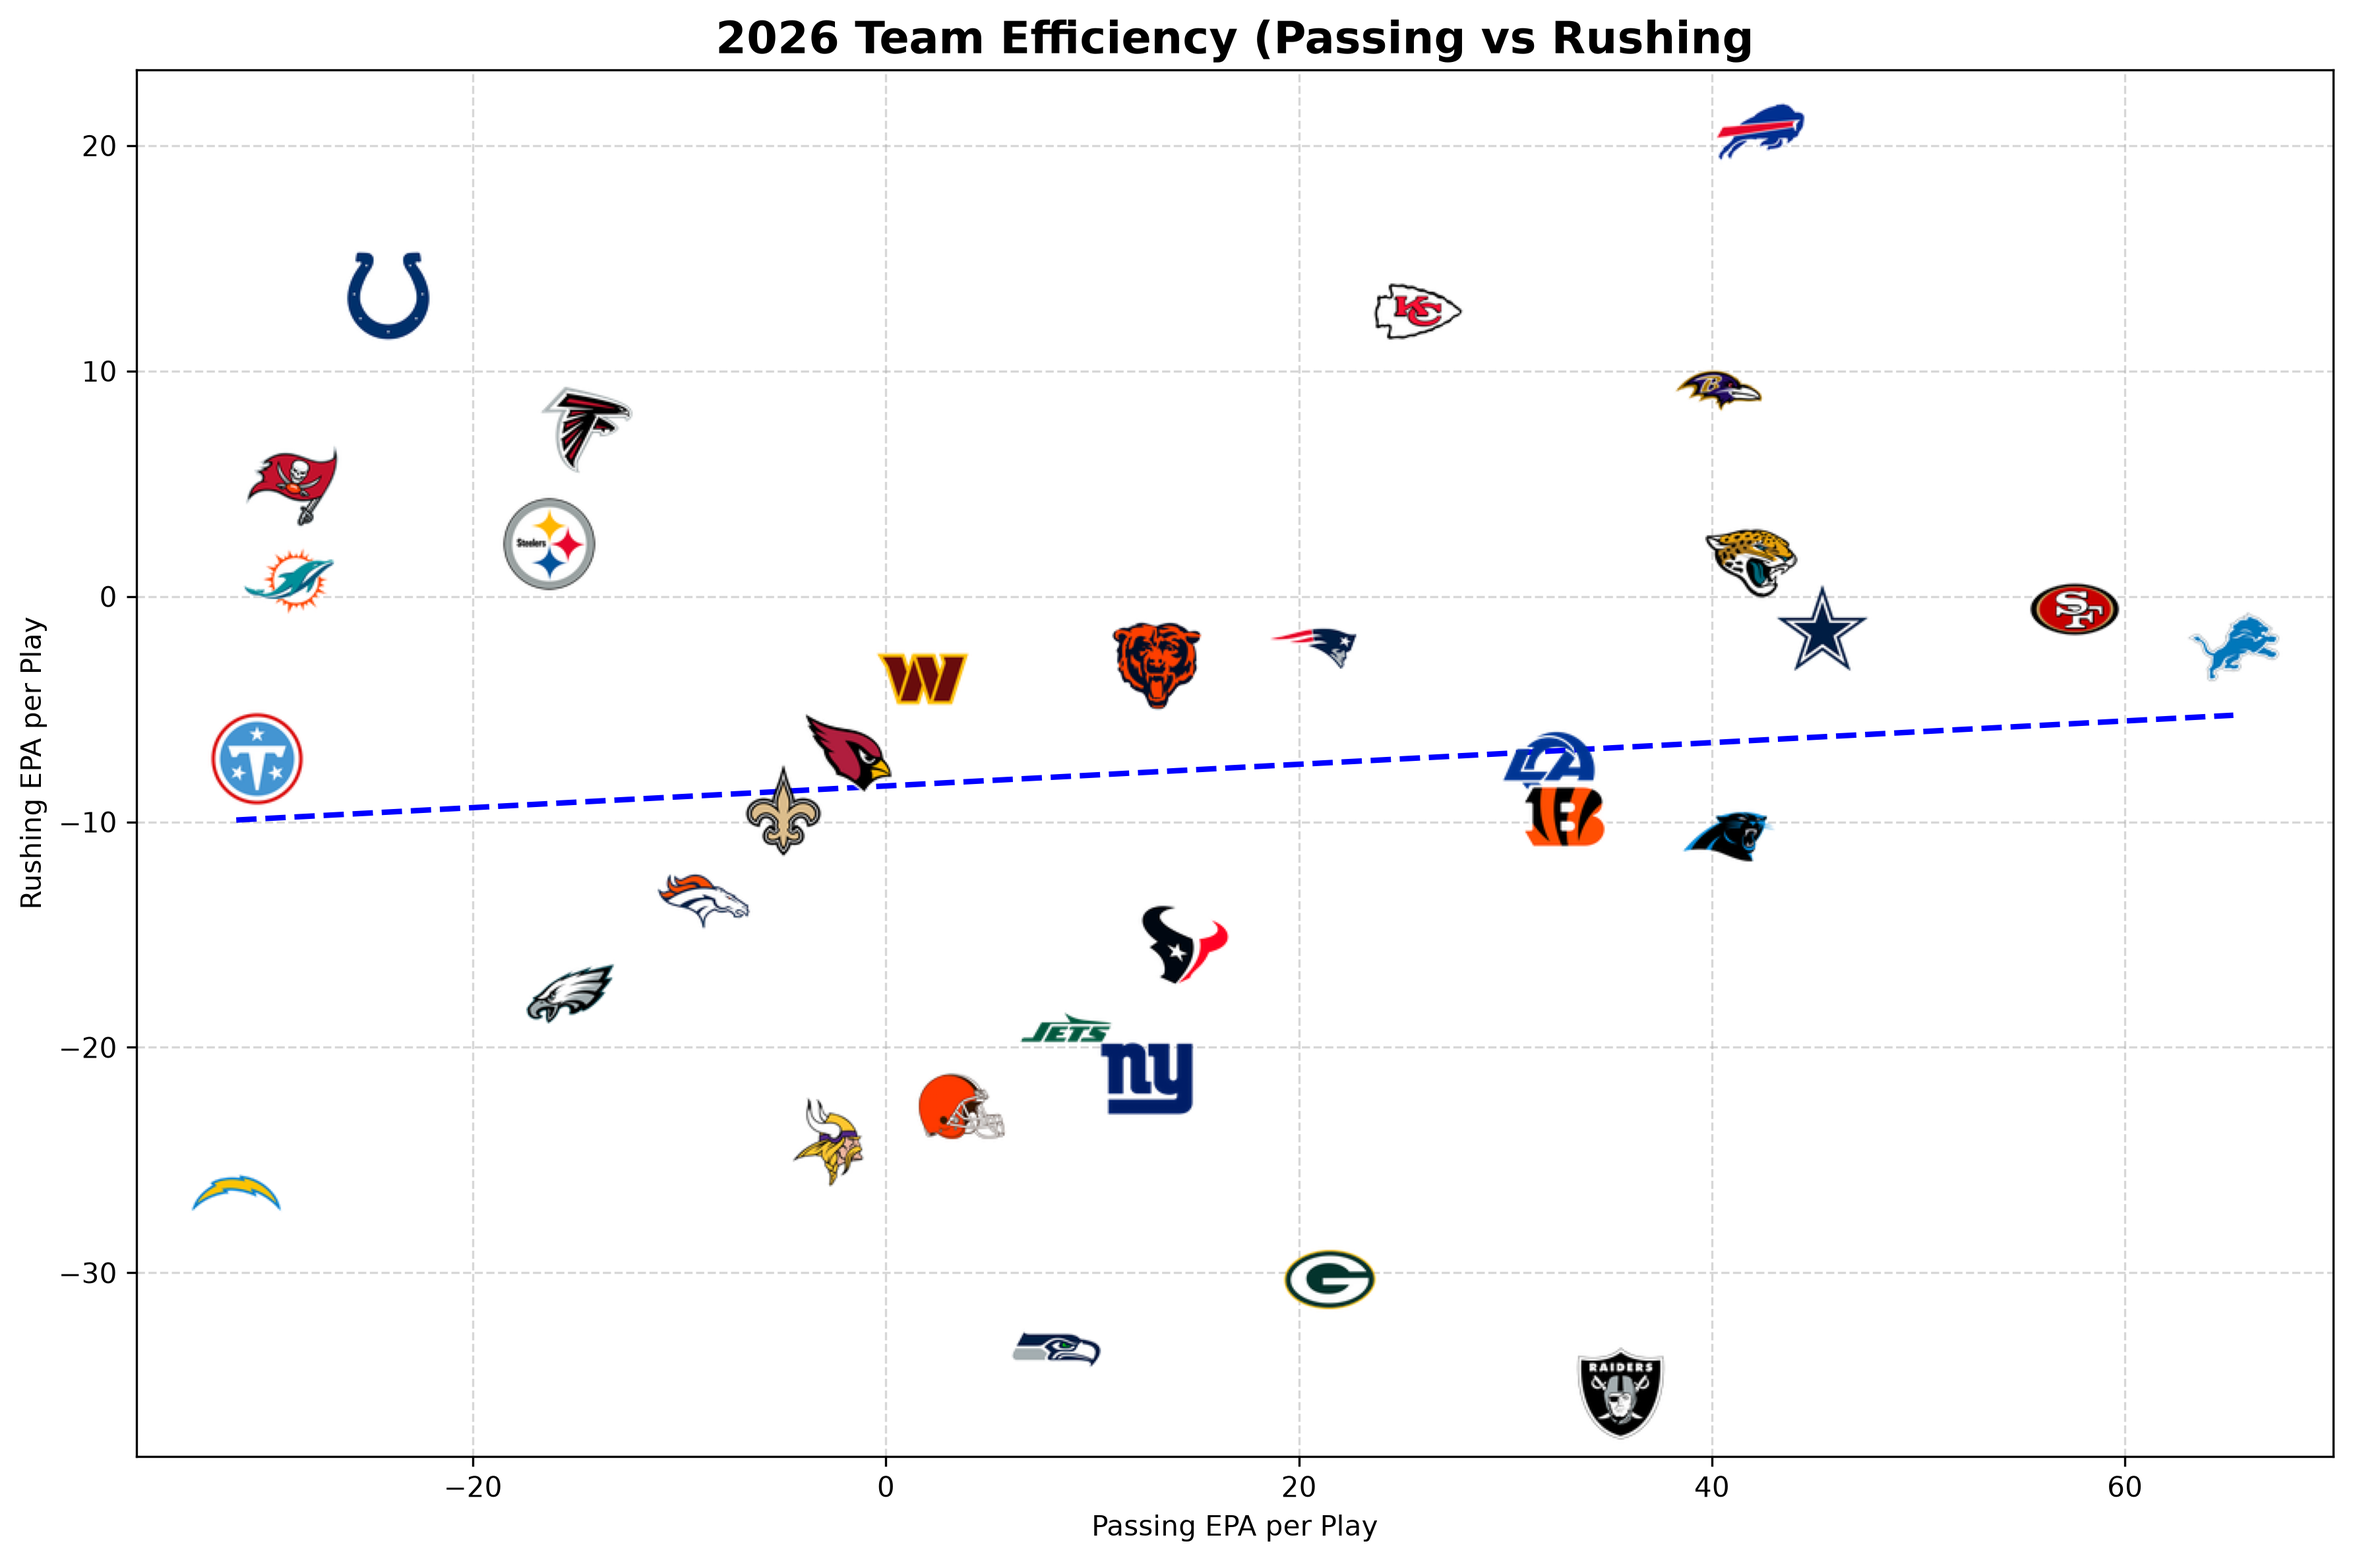
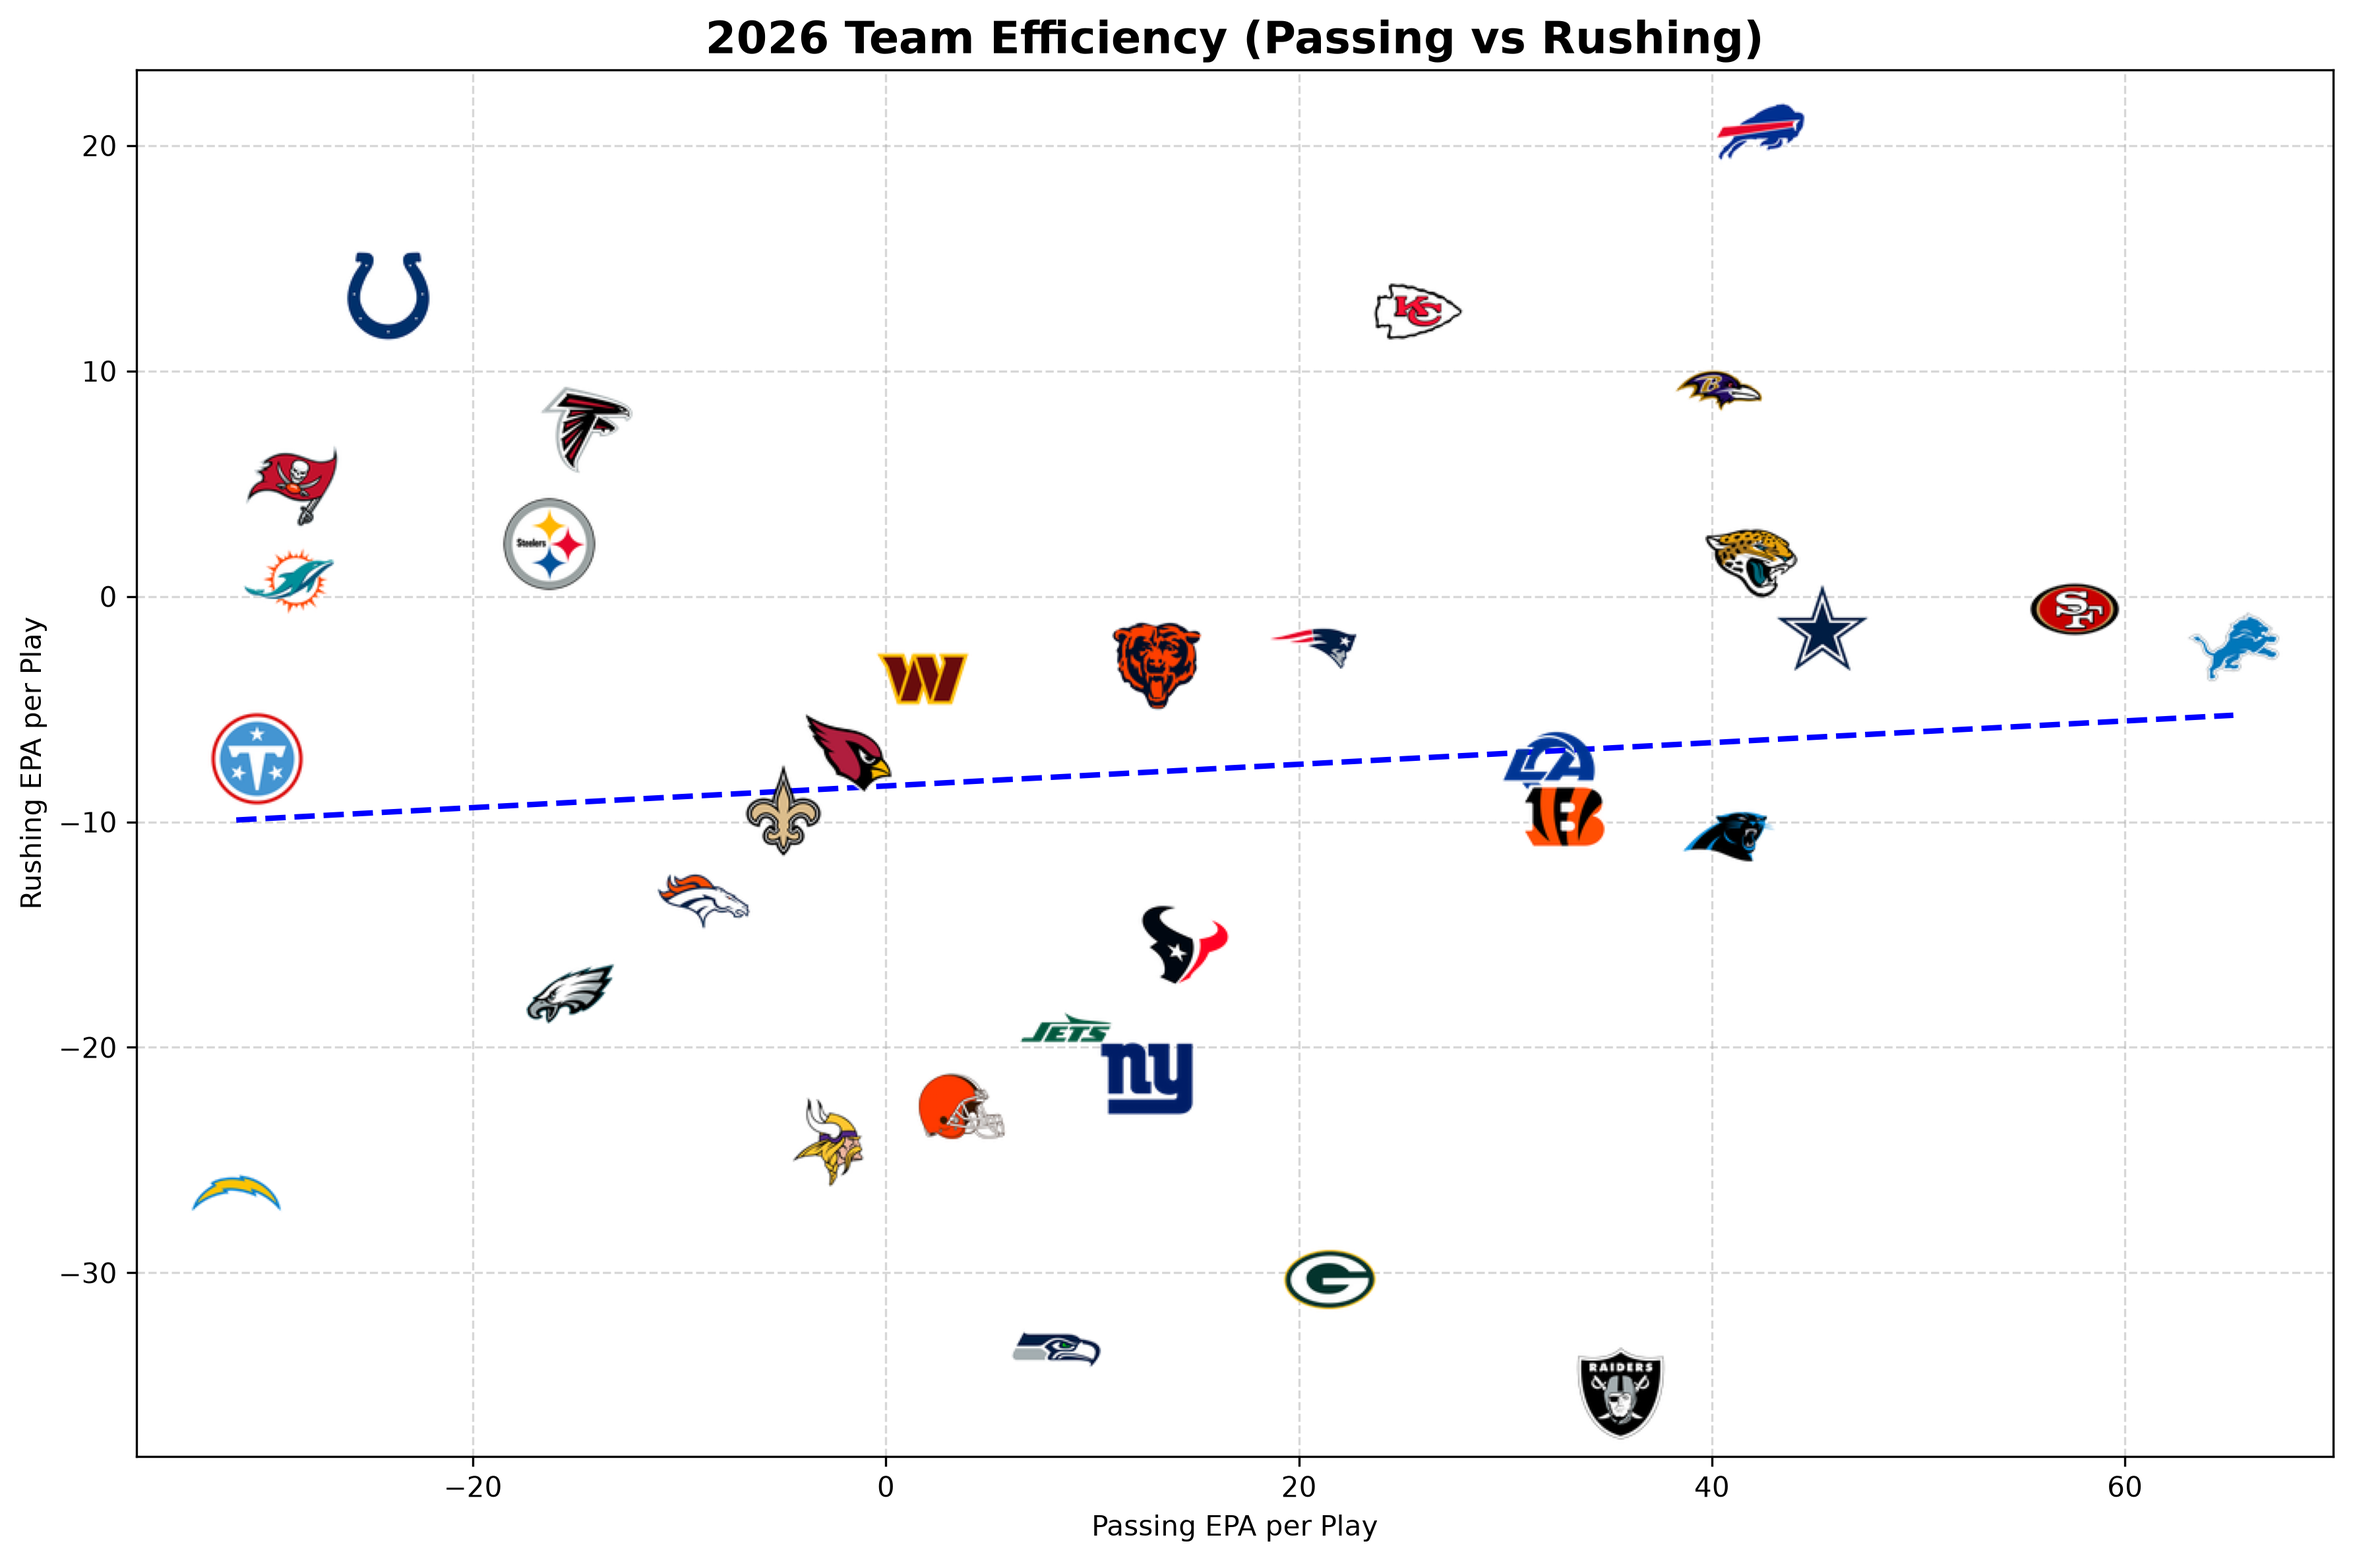
adding parentheisis and changing to every mahomes year before 2026 to shoe difference in rushing

Changed region(s): [[0.28, 0.0, 0.7466, 0.0625]]

diff --git a/Football Projects/p_epa_v_r_epa.py b/Football Projects/p_epa_v_r_epa.py
@@ -8,19 +8,18 @@ from PIL import Image
 
 #load team stats
 team_stats = nfl.load_team_stats(
-    seasons=2026,
-    summary_level="reg"
-)
+    seasons=[2018, 2019, 2020, 2021, 2022, 2023, 2024, 2025],
+    summary_level="reg+post"
+).to_pandas()
 #load teams
 teams = nfl.load_teams().to_pandas()
 
 #initialize epas
 epas = (
     team_stats
-    .sort("passing_epa")
-    .select("team", "passing_epa", "rushing_epa")
-    .head(32)
-    .to_pandas()
+    .groupby("team")[["passing_epa", "rushing_epa"]]
+    .mean()
+    .reset_index()
 )
 
 #merge with team abbr and logo
@@ -57,7 +56,8 @@ plt.plot(
 
 #helper function to get the logo
 def get_logo(url):
-    with urllib.request.urlopen(url) as response:
+    req = urllib.request.Request(url, headers={'User-Agent': 'Mozilla/5.0'})
+    with urllib.request.urlopen(req) as response:
         image_data = response.read()
     img = Image.open(io.BytesIO(image_data))
 
@@ -89,12 +89,12 @@ for _, row in epas.iterrows():
 #set graph settings
 ax.set_xlabel("Passing EPA per Play")
 ax.set_ylabel("Rushing EPA per Play")
-ax.set_title("2026 Team Efficiency (Passing vs Rushing", fontsize=16, fontweight="bold")
+ax.set_title("2018-2025 Team Efficiency (Passing vs Rushing)", fontsize=16, fontweight="bold")
 ax.grid(True, linestyle="--", alpha=0.5)
 
 plt.tight_layout()
 plt.savefig(
-    "Graphs/epa_graph.png",
+    "Graphs/epa_graphMAHOMES.png",
     dpi=300,
     bbox_inches="tight"
 )
